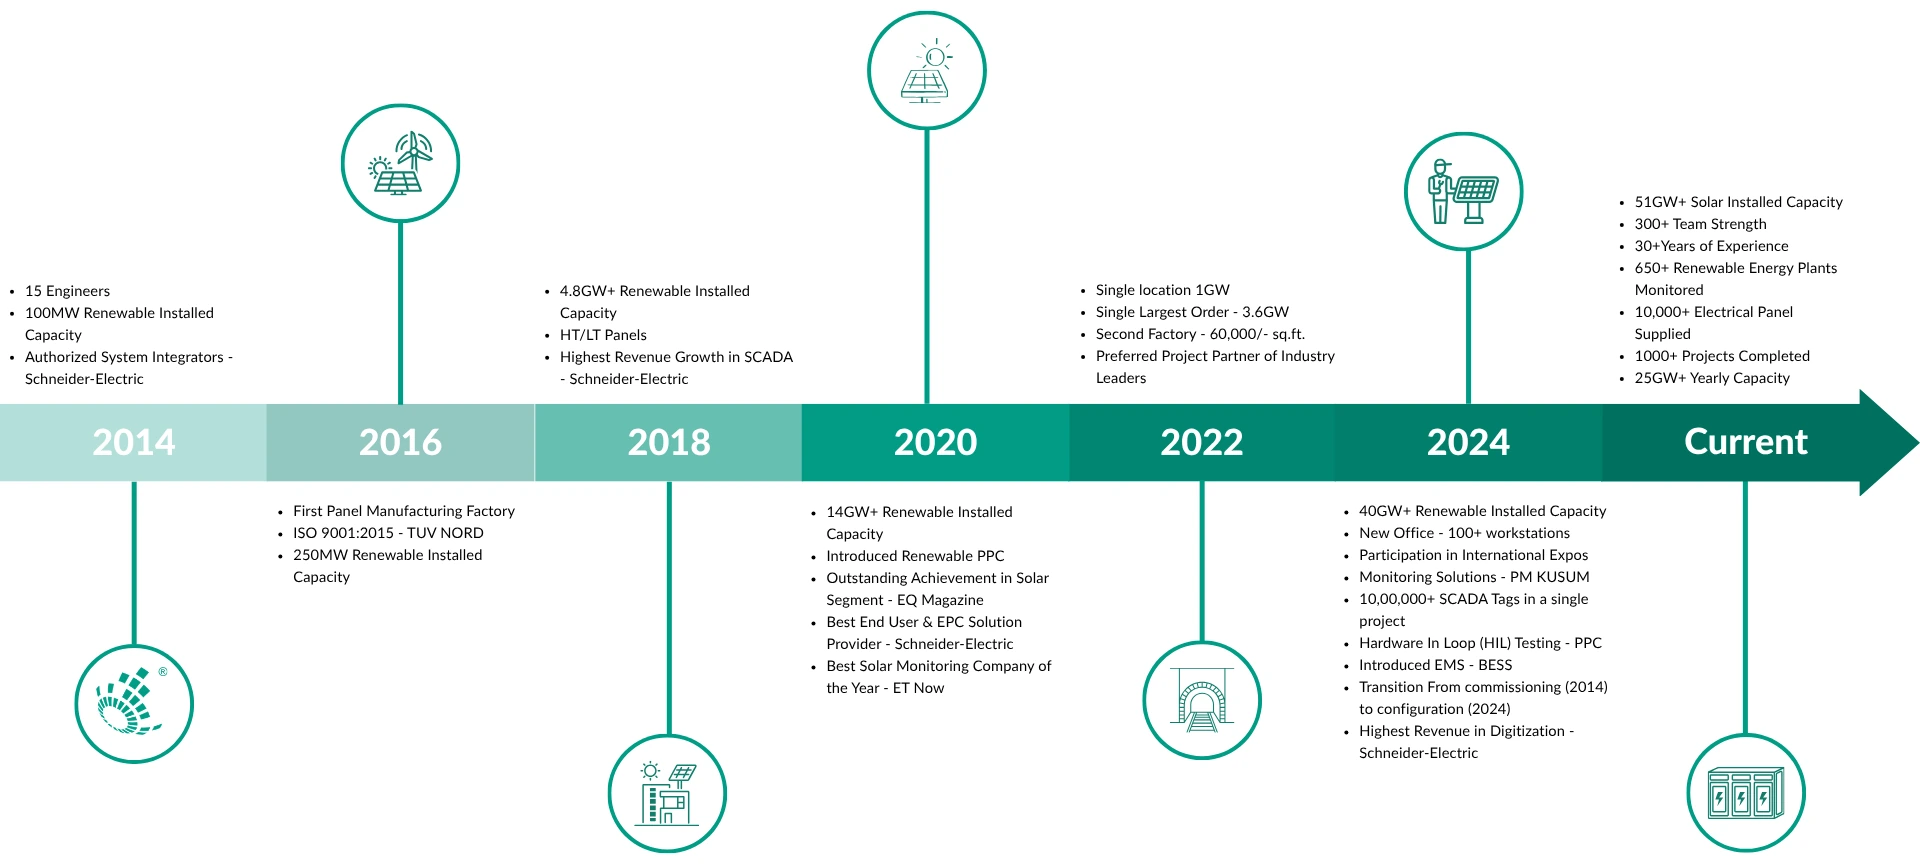
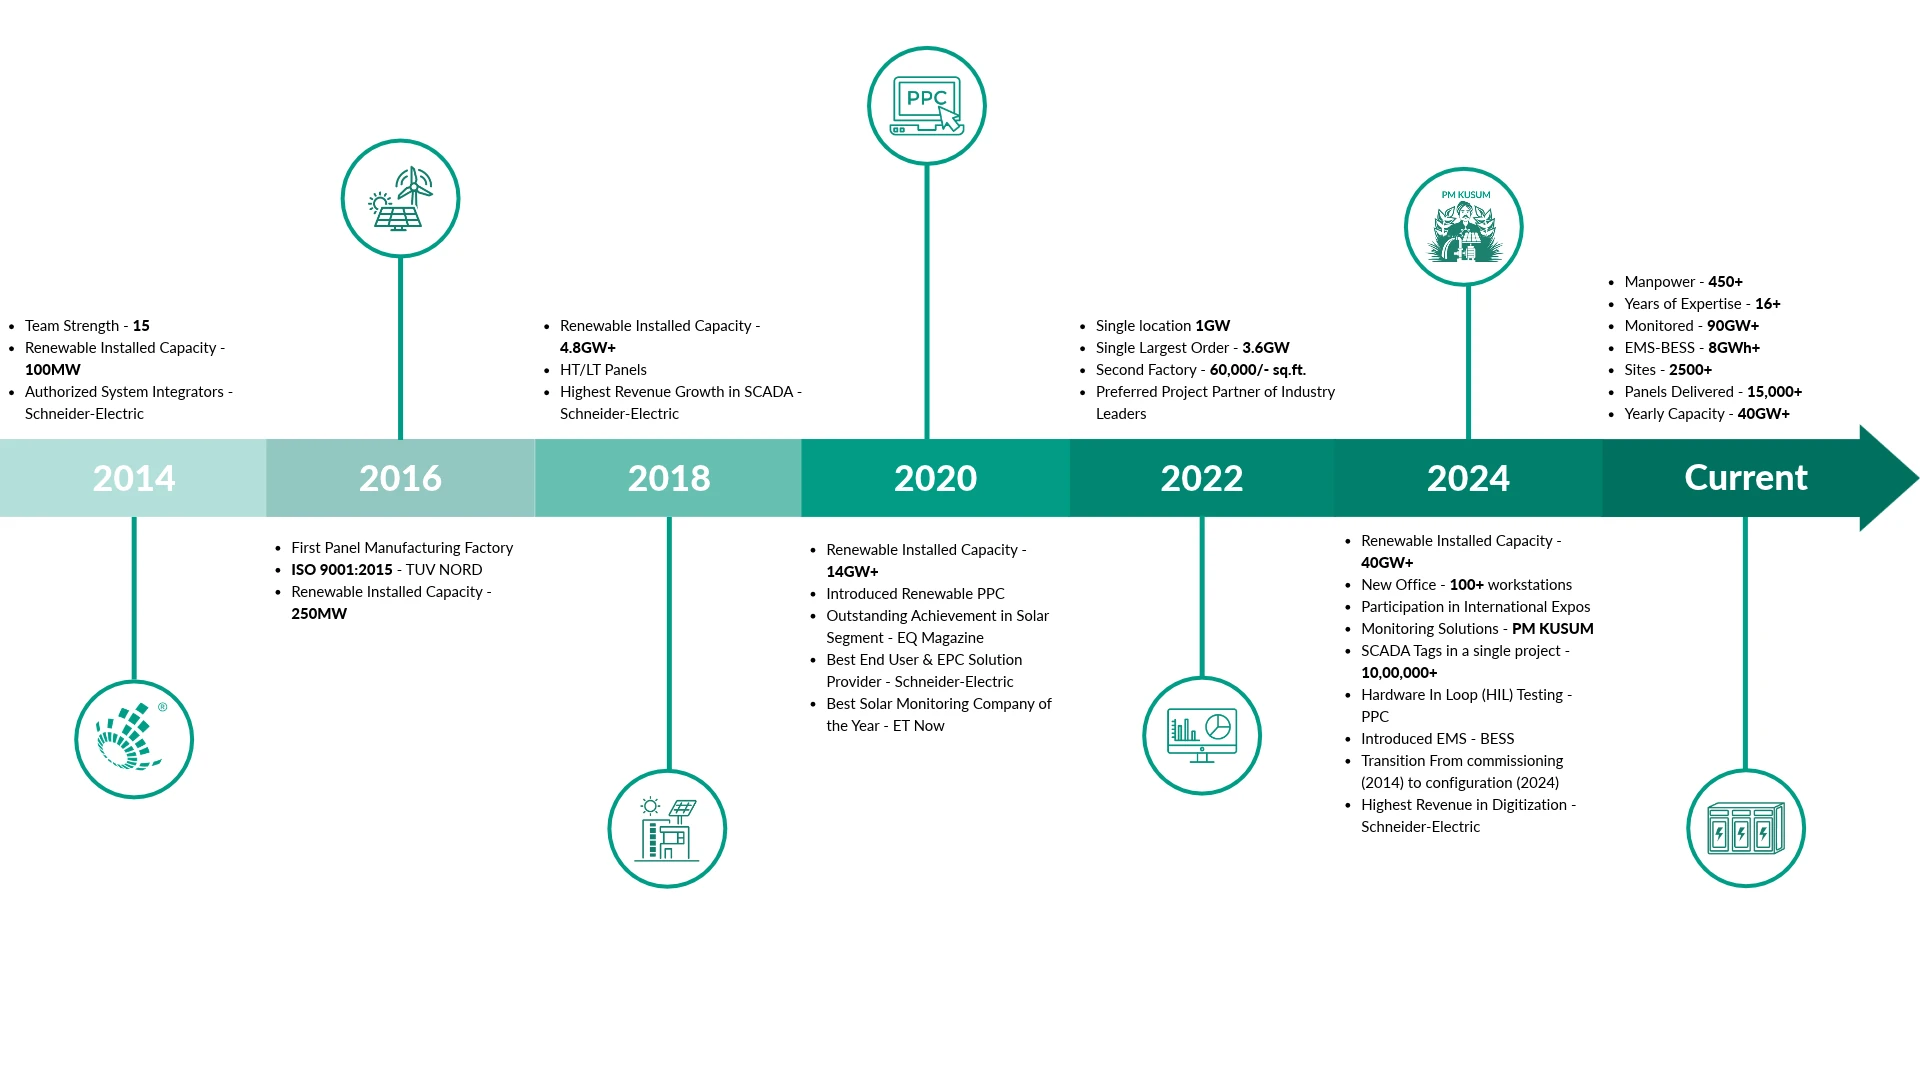
Replace About page journey timeline image
Swap in the updated timeline (2014 to Current) and update the img
height attribute to match the new 1920x1080 aspect ratio.

diff --git a/src/app/about/page.tsx b/src/app/about/page.tsx
@@ -117,7 +117,7 @@ export default function AboutPage() {
         <div className="container">
           <SectionHead eyebrow="Our journey" id="journey-title" title="From 15 engineers to India's market leader" />
           <div className={`${s.journey} reveal`}>
-            <img src="/about/journey.webp" alt="AEPL journey timeline from 2014 to today" width={1920} height={864} loading="lazy" />
+            <img src="/about/journey.webp" alt="AEPL journey timeline from 2014 to today" width={1920} height={1080} loading="lazy" />
           </div>
         </div>
       </section>
